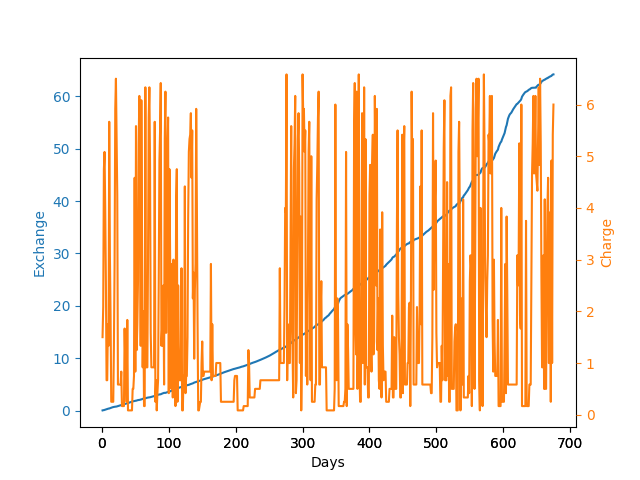
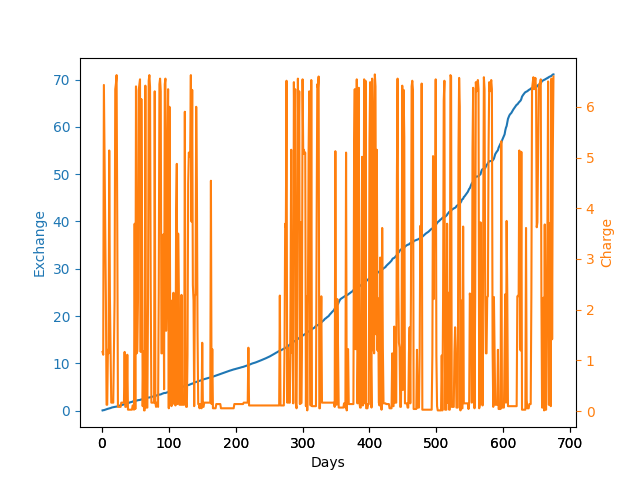
Fixed typo

diff --git a/main.py b/main.py
@@ -5,7 +5,7 @@ import torch.nn.functional as F
 from torch import nn
 import homeenv
 
-Home_Enviroment = homeenv.Home_Enviroment
+Home_Environment = homeenv.Home_Environment
 
 
 import json
@@ -81,9 +81,9 @@ def plot_env_score(x, score, filename, should_show, lines=None):
         plt.show()
 
 def if_step_sell(days, step_period, show, data):
-    #Home Enviroment
+    #Home Environment
 
-    env = Home_Enviroment(step_period,data)
+    env = Home_Environment(step_period,data)
     counts = [0,0,0]
     state = env.init()
     while env.day_index <= days:#((len(data)/24)):
@@ -100,7 +100,7 @@ def if_step_sell(days, step_period, show, data):
     plot_env(x,env.charge_at_time,(env.exchange),filename,should_show=show)
 
 def only_sell(days, step_period, show, data):
-    env = Home_Enviroment(step_period,data)
+    env = Home_Environment(step_period,data)
     counts = [0,0,0]
     while env.day_index <= days:#((len(data)/24)):
         state, reward, done = env.step(0)
@@ -112,7 +112,7 @@ def only_sell(days, step_period, show, data):
     plot_env(x,env.charge_at_time,(env.exchange),filename,should_show=show)
 
 def only_buy(days, step_period, show, data):
-    env = Home_Enviroment(step_period,data)
+    env = Home_Environment(step_period,data)
     counts = [0,0,0]
     days = days
     while env.day_index <= days:#((len(data)/24)):
@@ -124,7 +124,7 @@ def only_buy(days, step_period, show, data):
     plot_env(x,env.charge_at_time,(env.exchange),filename,should_show=show)
 
 def test_rewards(days, step_period, show, data):
-    env = Home_Enviroment(step_period,data)
+    env = Home_Environment(step_period,data)
     counts = [0,0,0]
     days = days
     while env.day_index <= days:#((len(data)/24)):
@@ -151,7 +151,7 @@ class DeepQNetwork(nn.Module):
         self.fc1_dims = fc1_dims #First fully connected layer
         self.fc2_dims = fc2_dims #Second fully connected layer
         self.fc3_dims = fc3_dims #Third fully connected layer
-        self.n_actions = n_actions #How many options for the enviroment (House electricity choices)
+        self.n_actions = n_actions #How many options for the Environment (House electricity choices)
 
         self.fc1 = nn.Linear(*self.input_dims, self.fc1_dims) #Linear layers
         self.fc2 = nn.Linear(self.fc1_dims, self.fc2_dims)
@@ -211,11 +211,11 @@ class Agent():
         self.mem_cntr += 1
 
     def choose_action(self, observation):
-        if np.random.random() > self.epsilon:
+        if np.random.random() > self.epsilon: #Greedy choice
             state = torch.tensor([observation]).to(self.Q_eval.device)
             actions = self.Q_eval.forward(state)
             action = torch.argmax(actions).item()
-        else: 
+        else: #Random (Exploration) choice
             action = np.random.choice(self.action_space)
         
         return action
@@ -252,7 +252,7 @@ class Agent():
                                                     else self.eps_min                                
 
 def deep_q_agent(days, step_period, show, data, save, save_path, load, load_path):
-    env = Home_Enviroment(step_period,data)
+    env = Home_Environment(step_period,data)
     agent = Agent(gamma=0.99, epsilon=0.01, batch_size=32, n_actions=2, 
                 eps_end=0.001, eps_dec=5e-6, input_dims=[5], lr=0.001,
                 load_path=load_path, load=load)
@@ -271,7 +271,7 @@ def deep_q_agent(days, step_period, show, data, save, save_path, load, load_path
             action_count[action] += 1
             #print(str(observation[0]) + ' ' + str(action))
             agent.store_transition(observation, action, reward, observation_, done)
-            #agent.learn()
+            agent.learn()
             observation = observation_
         scores.append(score)
         eps_history.append(agent.epsilon)
@@ -319,11 +319,11 @@ if __name__ == "__main__":
     data = json.load(file)
 
     save = False
-    load = False
+    load = True
     save_path = "Q_Eval_Days4k_Info3h_Step10min3.pth"
     load_path = "Q_Eval_Days4k_Info3h_Step10min3.pth"
 
-    step = 60*60
+    step = 60*10
 
     print("\n-----------------------------------------------------------------------------------------------\n")
     print(f'Days in data: {int((len(data)/24) -1)}')#Prints amount of days in data given

diff --git a/homeenv.py b/homeenv.py
@@ -1,16 +1,15 @@
-#Home Enviroment
+#Home Environment
 import json
 import re
 import numpy as np
 import torch
 
 
-
 kilohour_to_sec = 1/60/60/1000
 hour_to_sec = 1/60/60
 
 
-class Home_Enviroment():
+class Home_Environment():
 
     def __init__(self, step_period, data):
         self.data = data
@@ -105,7 +104,7 @@ class Home_Enviroment():
             self.exchange.append((self.total_sold_price-self.total_bought_price)/100)
             self.sold_in_day = 0
             self.bought_in_day = 0
-            #self.run_timeframe(choice) #Made Enviroment Rerun day
+            #self.run_timeframe(choice) #Made Environment Rerun day
             #print(f"Time: {self.time} | Sold for: {self.total_sold_price/100} | Bought for: {self.total_bought_price/100} | Day count: {self.day_index} ")
             #return #Made day quit
 
